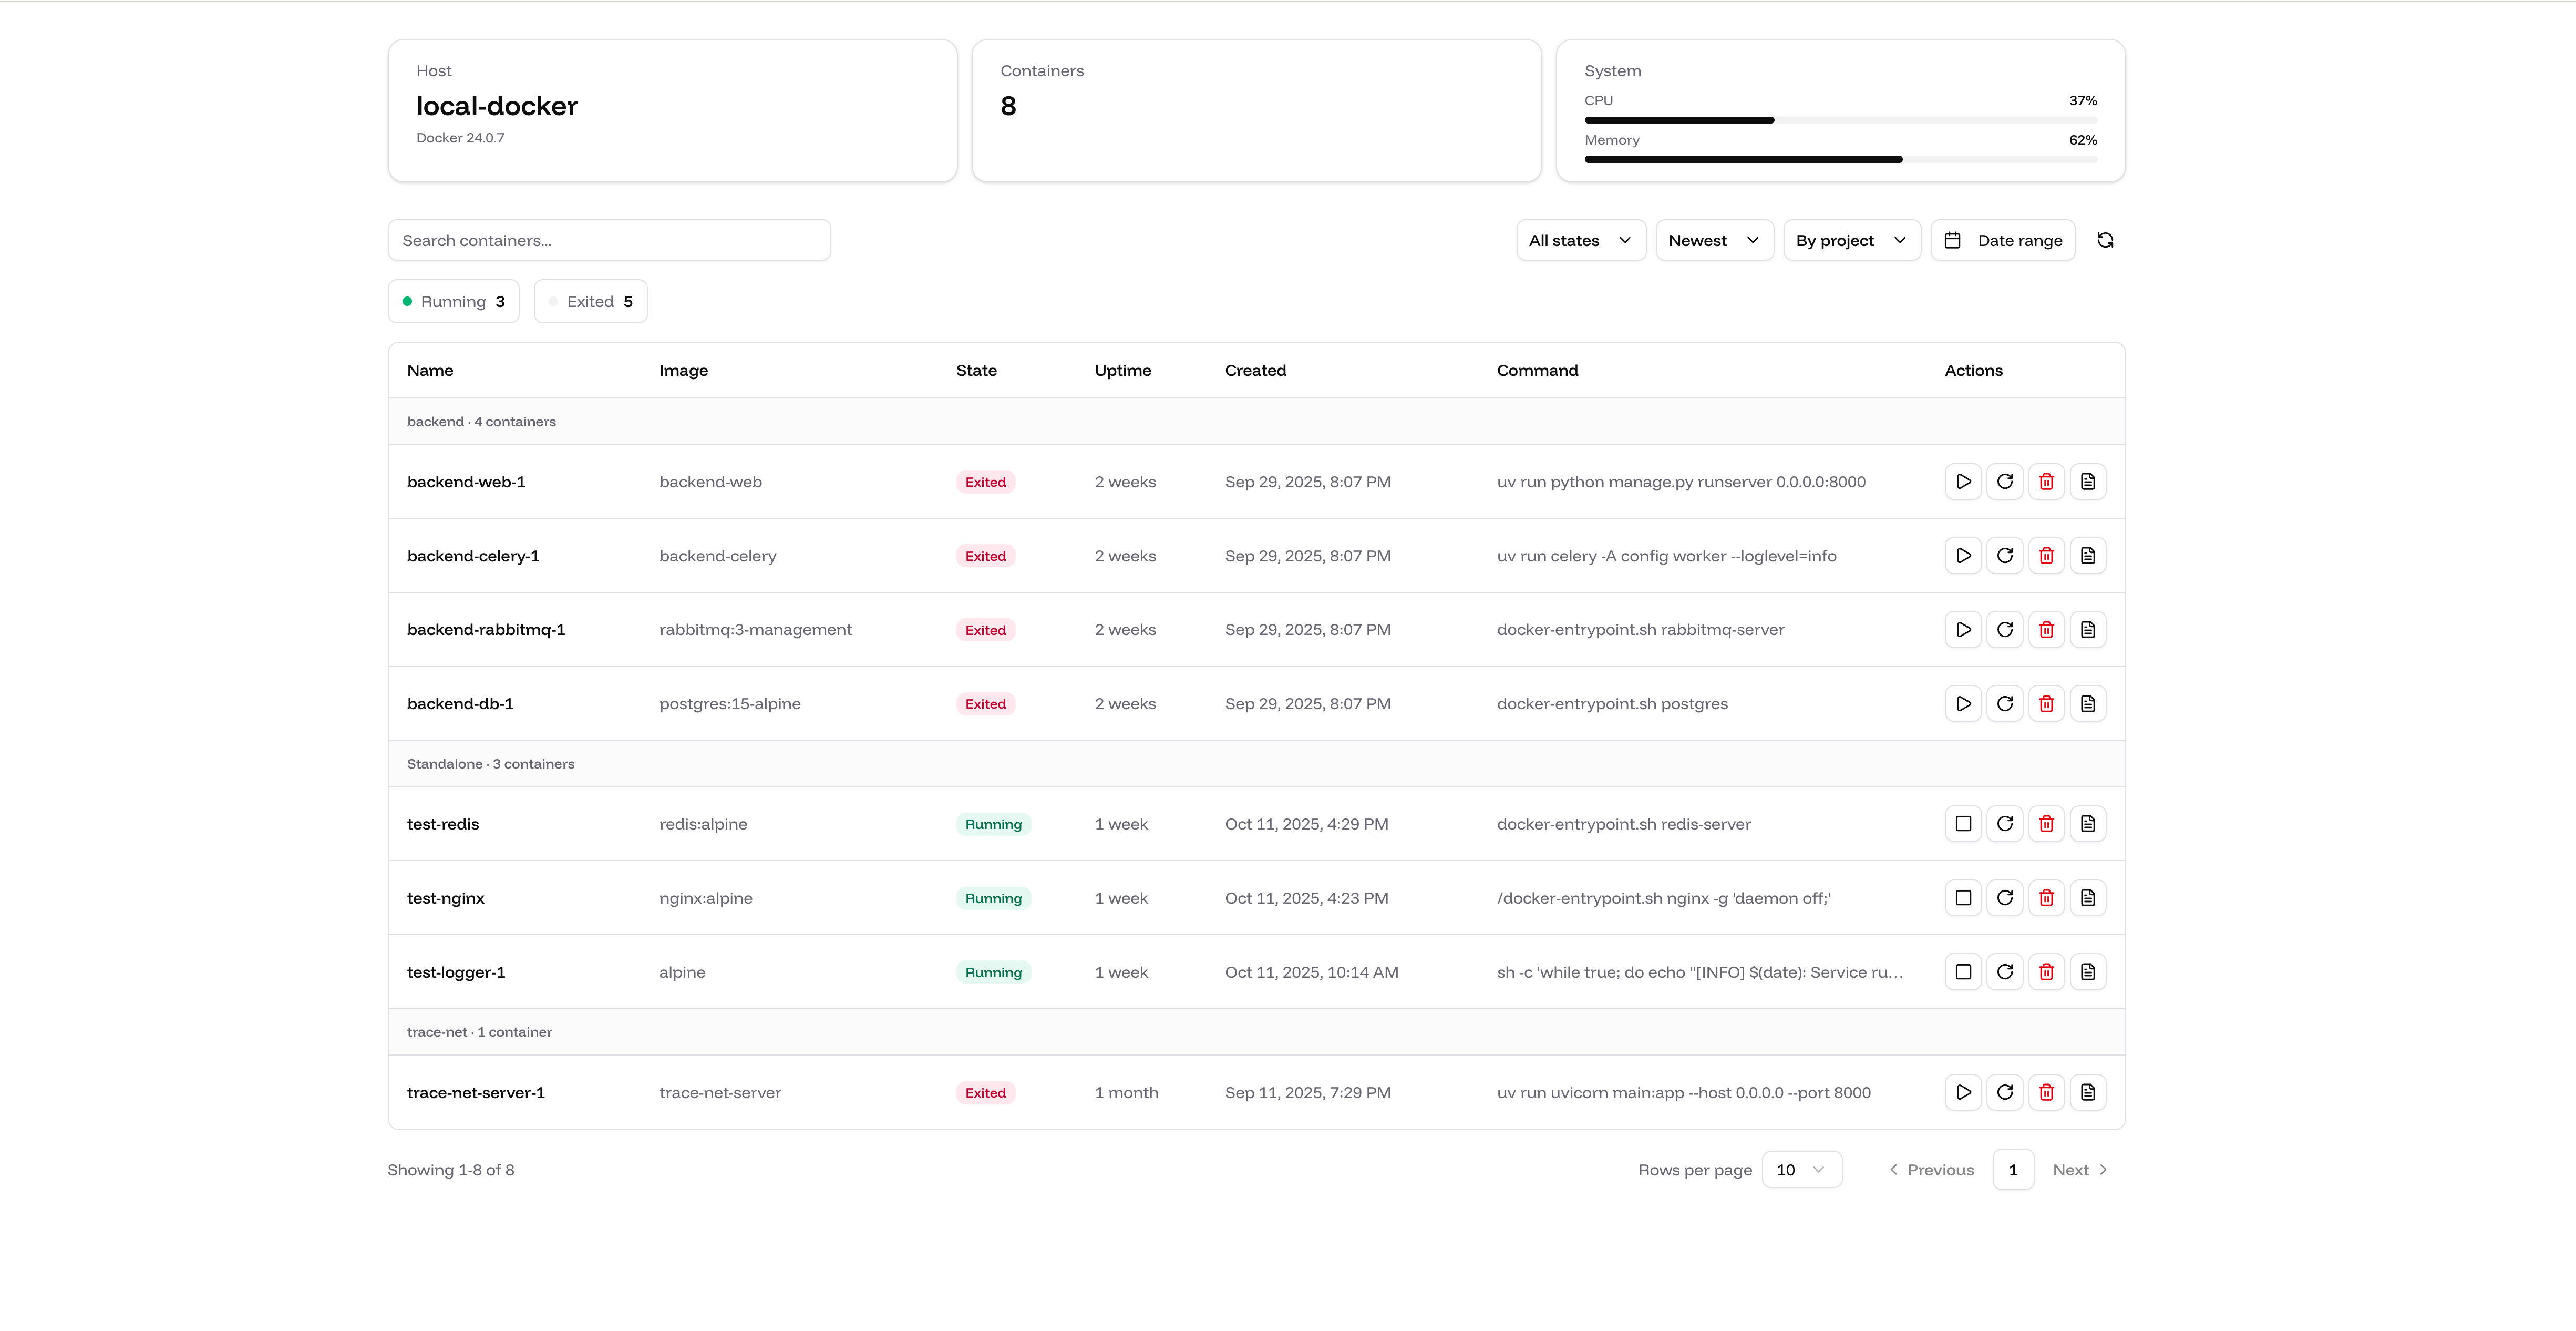
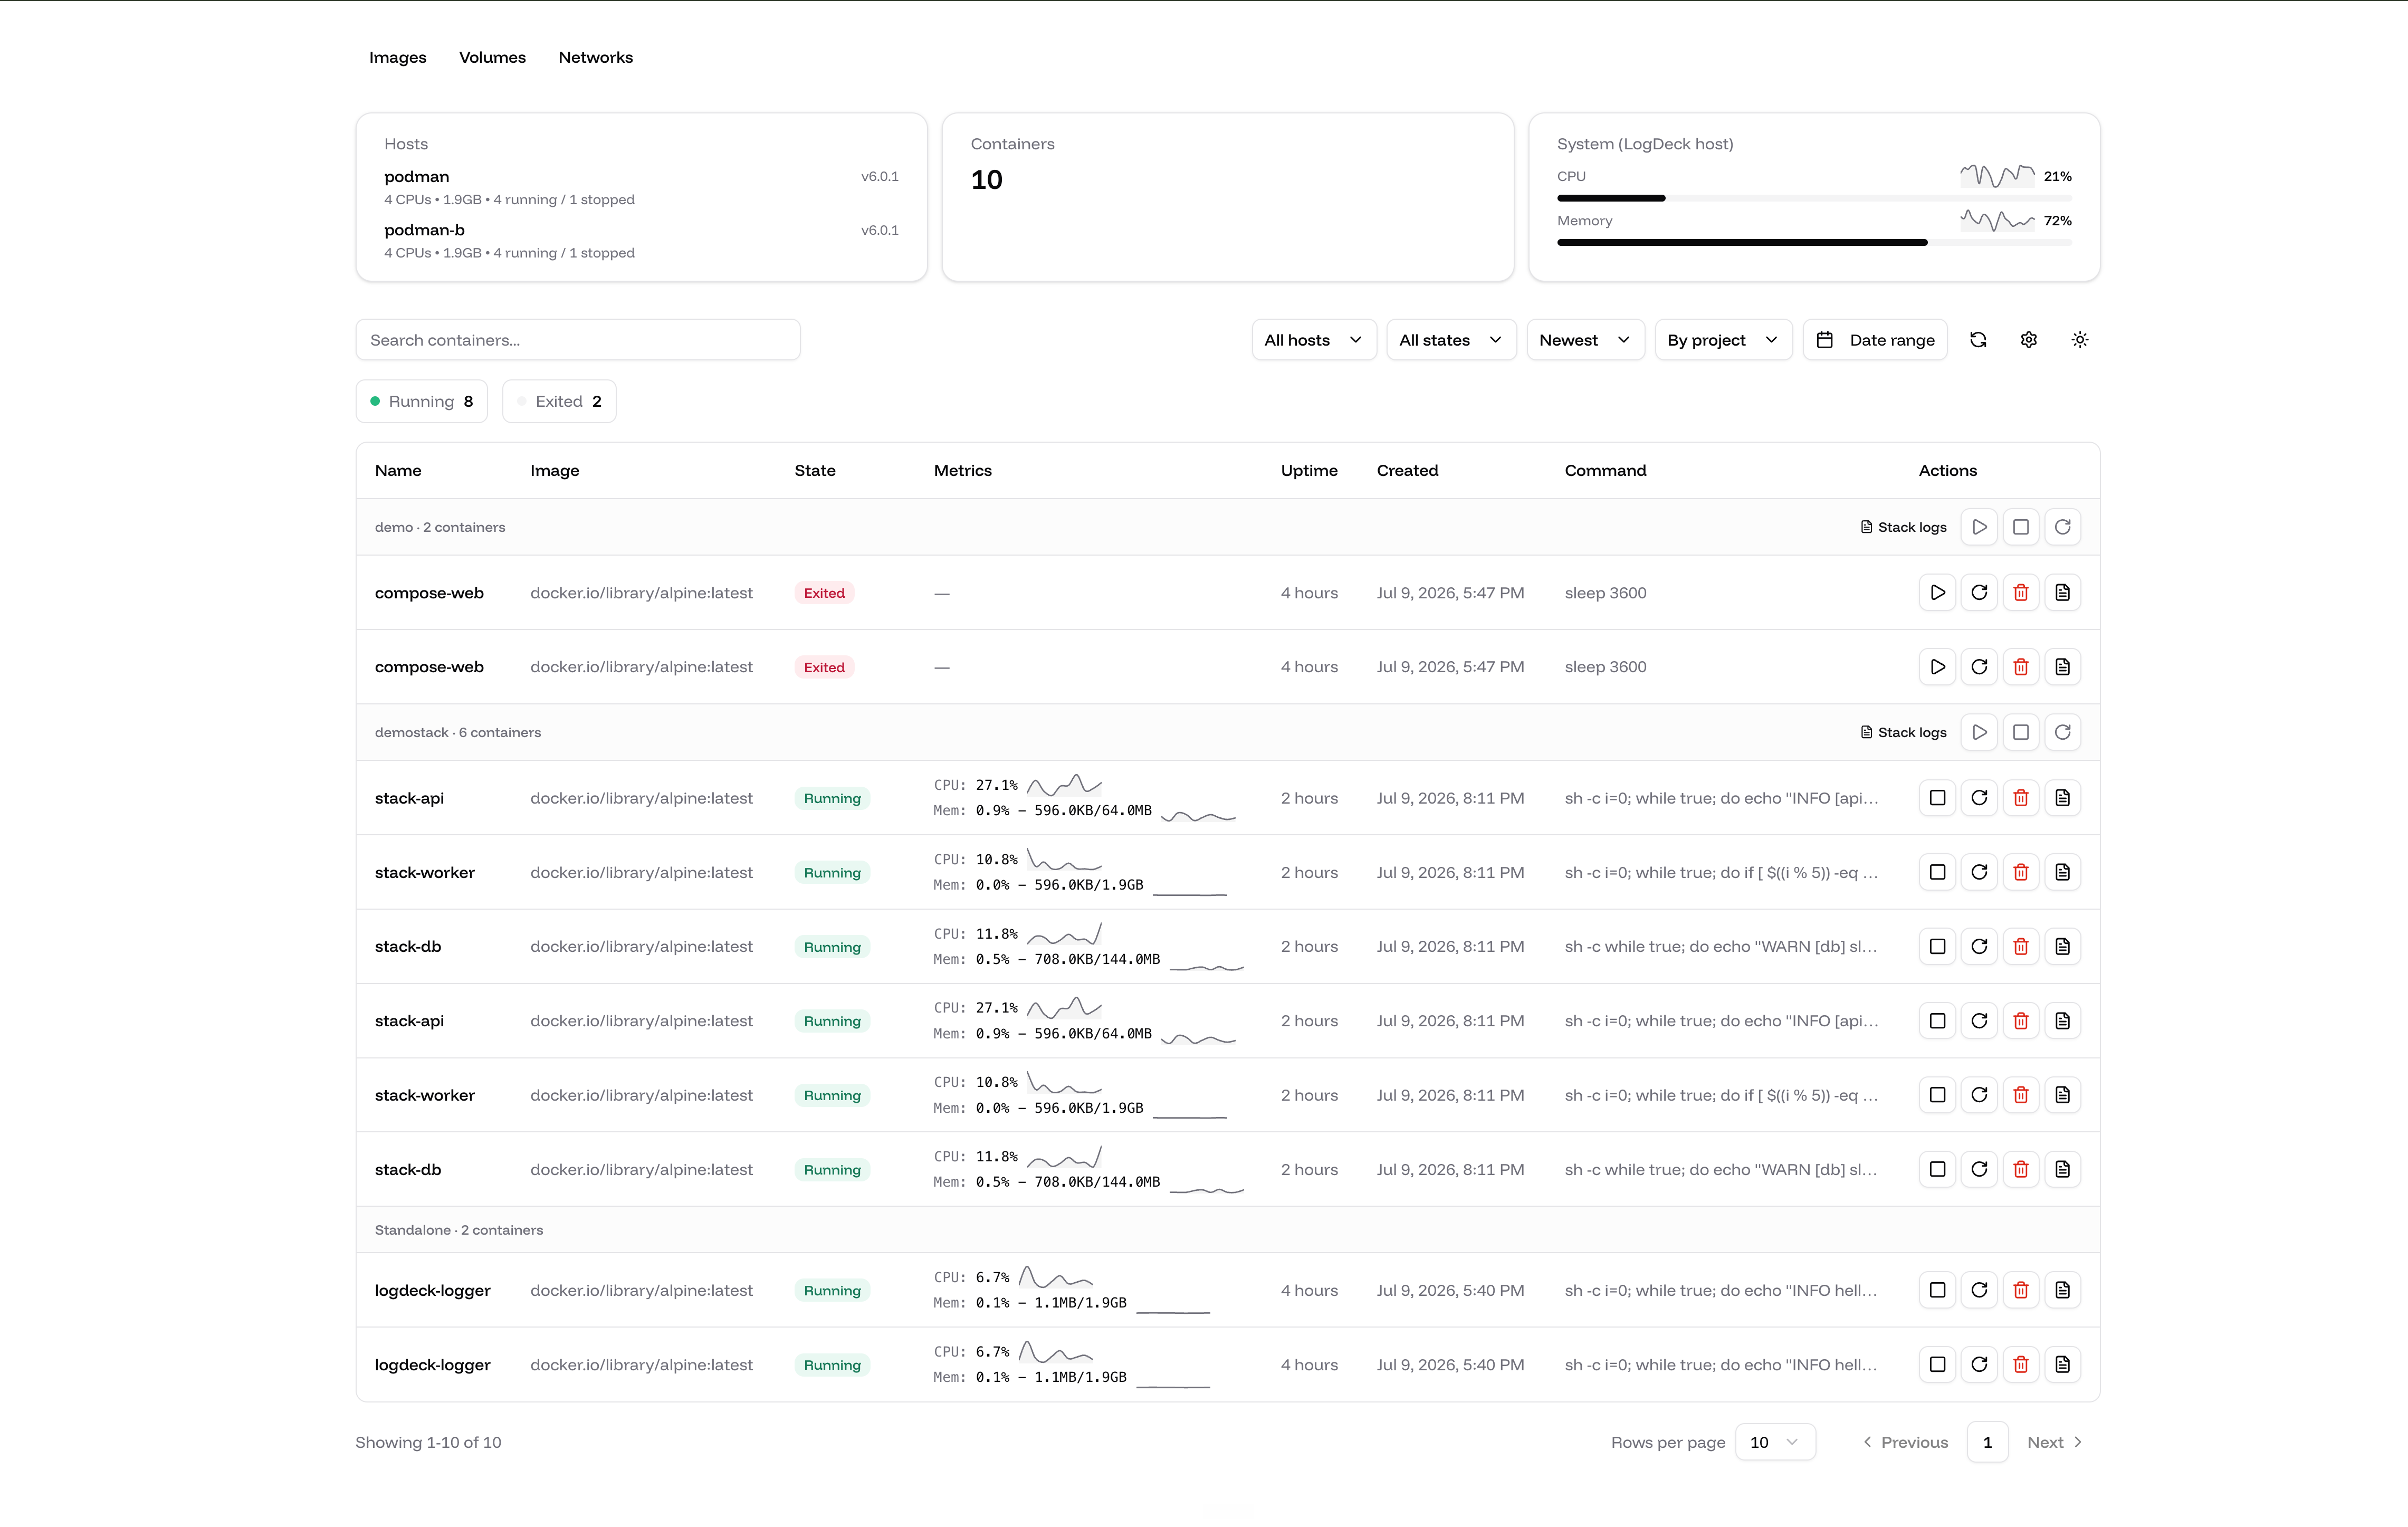
docs: update dashboard screenshot in readme
Claude-Session: https://claude.ai/code/session_01EvF9bkDSJmToESrttC3TrV

diff --git a/Readme.md b/Readme.md
@@ -2,7 +2,7 @@
 
 LogDeck is an open-source, high-performance Docker container monitoring and management tool. Built for speed and ease of use, it provides real-time log streaming, multi-host support, and a beautiful interface for managing your containers.
 
-![LogDeck Landing](./docs/landing.png)
+![LogDeck Dashboard](./docs/landing.png)
 ![LogDeck Container View and Logs](./docs/logs.png)
 
 ## Features